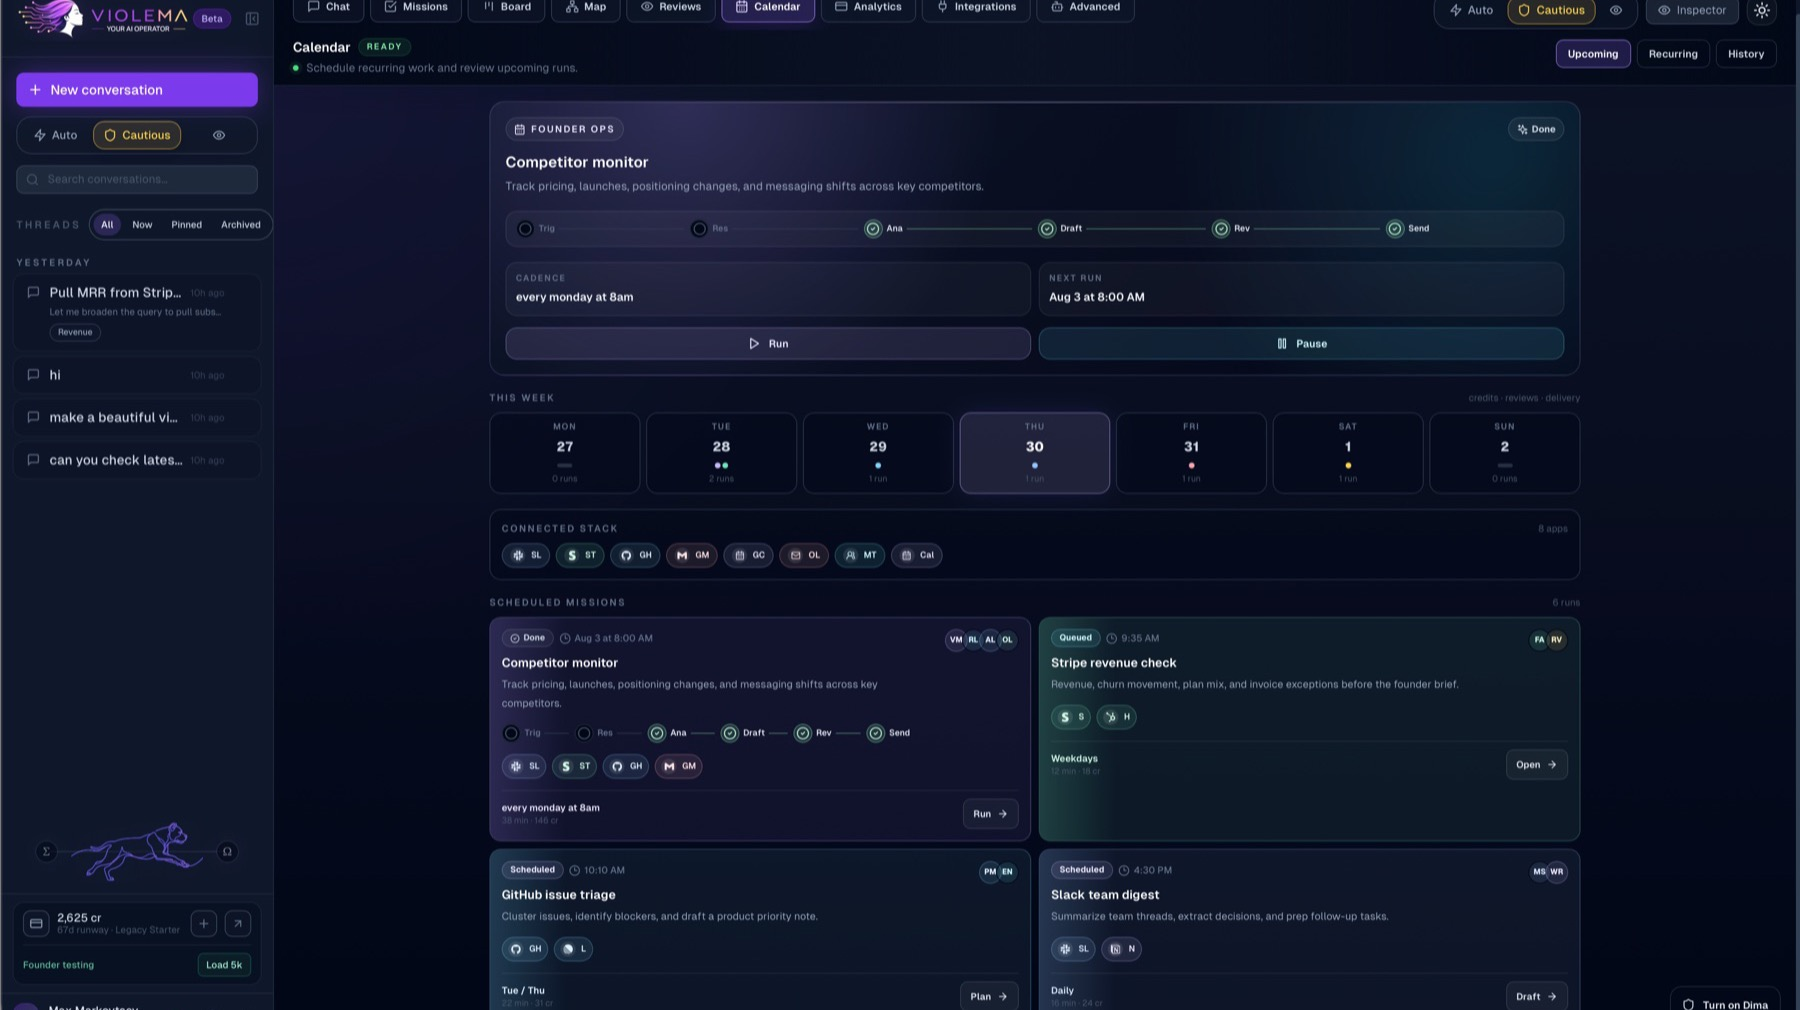
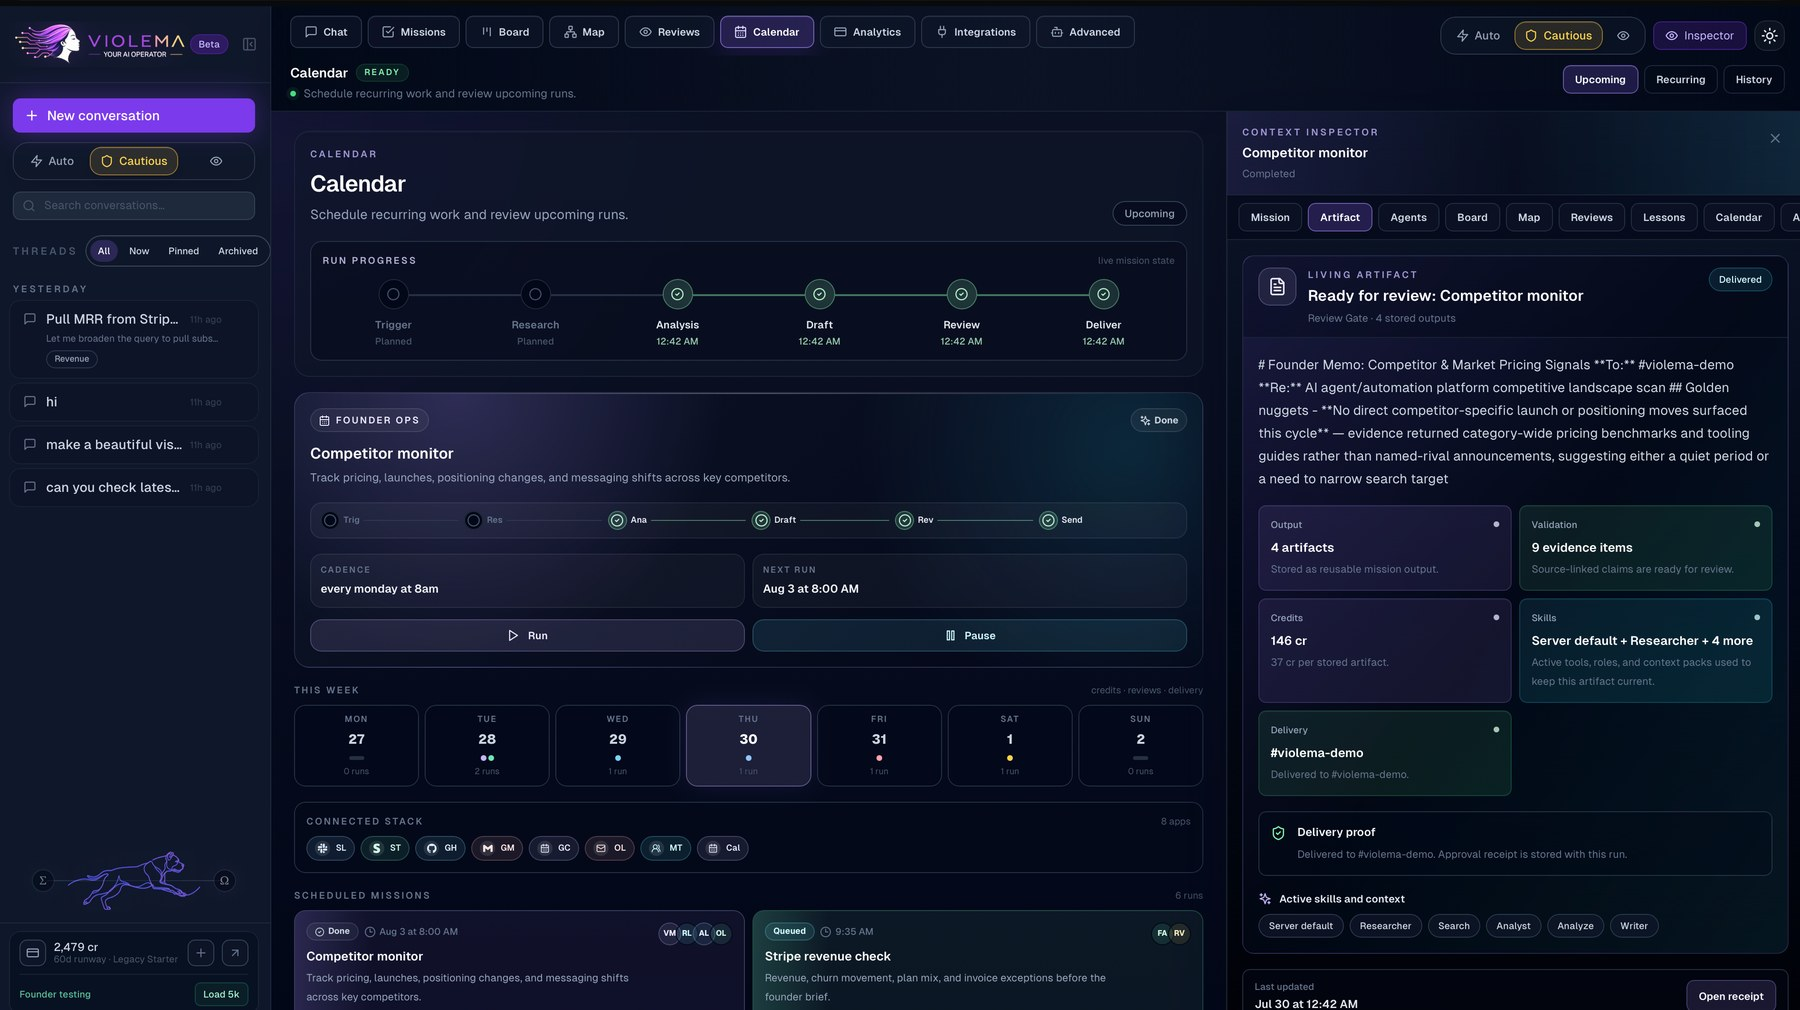
feat: slide 5 rejoins the hero tour format — calendar with inspector, both themes
Replaces the zoomed inspector-less P5 crop with fresh full-frame captures
(from VLM_LHT_5/VLM_DRK_5): complete top nav, context inspector open on the
delivered competitor memo, matching P1-P4/P6 framing. Light capture trimmed
of its window-drag border; both sized to 1800x1010. HERO_IMAGE_VERSION bumped
to 20260730b to bust caches.

diff --git a/frontend/src/components/HeroProductTour.tsx b/frontend/src/components/HeroProductTour.tsx
@@ -10,7 +10,7 @@ export type HeroTourSlide = {
   alt: string;
 };
 
-export const HERO_IMAGE_VERSION = '20260730';
+export const HERO_IMAGE_VERSION = '20260730b';
 /** Both capture sets exist (P1–P6 light and P1-dark–P6-dark), so each theme
  * shows its own: light captures on the light site, dark on dark. */
 export const DARK_TOUR_SLIDES_READY = true;
@@ -26,7 +26,7 @@ export const heroTourSlides: HeroTourSlide[] = [
   { name: 'P2', src: heroImageSrc('P2'), path: 'violema.com / missions', alt: 'Violema mission cockpit showing competitor monitor run progress, cost, and cadence controls.' },
   { name: 'P3', src: heroImageSrc('P3'), path: 'violema.com / collection', alt: 'Violema mission collection: six numbered operating loops, from the weekly founder brief to the monthly investor update.' },
   { name: 'P4', src: heroImageSrc('P4'), path: 'violema.com / reviews', alt: 'Violema review gate with the drafted competitor memo, source evidence, and delivery receipt.' },
-  { name: 'P5', src: heroImageSrc('P5'), path: 'violema.com / calendar', alt: 'Violema calendar scheduling recurring founder workflows across the connected stack.' },
+  { name: 'P5', src: heroImageSrc('P5'), path: 'violema.com / calendar', alt: 'Violema calendar scheduling recurring founder workflows, with the delivered competitor memo artifact in the context inspector.' },
   { name: 'P6', src: heroImageSrc('P6'), path: 'violema.com / analytics', alt: 'Violema analytics with the credit waterfall, per-step run cost, and the agent floor on duty.' },
 ];
 
